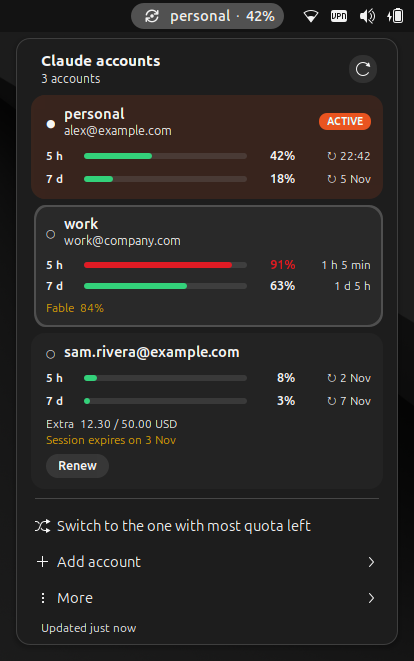
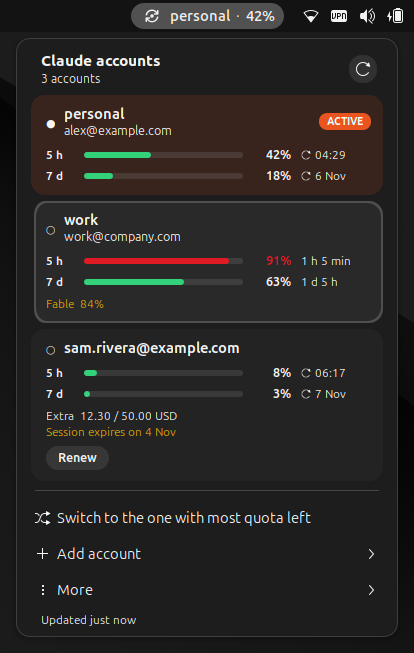
Document GNOME compatibility and releases; UTC screenshots
- CONTRIBUTING.md: the Docker compatibility matrix (`just compat`), when a
  GNOME version may be declared, screenshots and the release checklist.
- CLAUDE.md: per-version differences to keep in mind.
- The sandbox runs GNOME Shell in UTC so screenshots never reveal the
  local time zone; screenshots regenerated (new reset icon, version 0.2.0).

diff --git a/CONTRIBUTING.md b/CONTRIBUTING.md
@@ -1,0 +1,61 @@
+# Contributing
+
+Thanks for helping! Code, comments, commits and source strings are in English; the UI is translated with gettext (`po/`). Read [CLAUDE.md](CLAUDE.md) for the project rules: they apply to humans too.
+
+## Tests
+
+```bash
+npm install          # eslint only
+just test            # full suite (~4 min); just test-quick skips the long race test
+just lint
+```
+
+Tests run in a temporary `HOME` with a fake API and a fake `claude`. They never touch your real `~/.claude`.
+
+## Testing on every GNOME Shell version
+
+The extension supports GNOME Shell 45 to 51 from a single codebase. `just compat` checks all of them with Docker; `just compat 39 45` checks only some (the arguments are Fedora releases):
+
+| Fedora | 39 | 40 | 41 | 42 | 43 | 44 | 45 |
+|---|---|---|---|---|---|---|---|
+| GNOME Shell | 45 | 46 | 47 | 48 | 49 | 50 | 51 |
+
+For each release it builds an image from `tools/compat/Dockerfile` (cached as `cas-gnome:f<release>`) and runs `tools/compat/check.sh` inside it, as an unprivileged user and with the repository mounted read-only:
+
+1. the engine test suite (`tests/run.js --quick`);
+2. a **headless GNOME Shell** with the extension in a sandbox: 20 enable/disable cycles (`tools/sandbox.sh cycle`);
+3. screenshots of the menu with three example accounts.
+
+Results go to `/tmp/cas-compat/f<release>/` (`shots/`, `shell-cycle.log`, `tests.log`, `versions.txt`) and a summary is printed:
+
+```
+fedora gnome-shell  gjs     tests  cycles  js-errors  shots
+f39    45.10        1.78.5  71/0   20/20   0          10
+...
+```
+
+A version **passes** when tests have 0 failures, cycles are 20/20 with the indicator really in the panel, `js-errors` is 0 (it also counts extension load failures) and the screenshots look right; open a few in `shots/`, a layout bug does not show up as an error. Only then add the version to `shell-version` in `extension/metadata.json`.
+
+The container has no systemd, so `check.sh` provides what a desktop always has: a private D-Bus daemon as the system bus, `/tmp/.X11-unix`, and `tools/compat/fake-localed.js` (GNOME 45 and 47 crash without `org.freedesktop.locale1`). Undeclared versions are loaded with `disable-extension-version-validation` (`CLAUDE_ACCOUNTS_IGNORE_VERSION=1`). Logs mention GDM, logind, PolicyKit or GeoClue: that noise is expected.
+
+To support a new GNOME release: add its Fedora release to the default list in `tools/compat/run-matrix.sh`, run `just compat <release>`, fix what breaks (feature-detect instead of comparing versions when possible) and update `metadata.json`, the README table and badge, and the version range in `install.sh`.
+
+## Screenshots
+
+`CLAUDE_ACCOUNTS_SHELL_MODE=headless just screenshots` and `just prefs-shots` regenerate `assets/screenshots/` from a sandbox with example accounts (no window; without the variable a nested window opens). The sandbox uses UTC so the clock does not reveal a time zone, and PNG metadata is stripped. Check every image before committing: no real names, emails or paths.
+
+## Releasing
+
+1. Bump the version in `extension/metadata.json` (`version-name`), `engine/lib/version.js`, the user agent in `engine/adapters/http.js`, the fallback in `extension/prefs.js` and `tests/engine/e2e.test.js`; add a `CHANGELOG.md` entry.
+2. `just test`, `just lint`, `just compat`, regenerate screenshots if the UI changed.
+3. Commit with UTC dates and the noreply email, so no time zone or personal address is published:
+   ```bash
+   now=$(date -u +%Y-%m-%dT%H:%M:%S+0000)
+   GIT_AUTHOR_DATE=$now GIT_COMMITTER_DATE=$now git commit
+   ```
+4. `just pack`, then create the release with the zip, `install.sh` and `SHA256SUMS`:
+   ```bash
+   cd dist && cp ../install.sh . && sha256sum *.zip install.sh > SHA256SUMS
+   gh release create vX.Y.Z *.zip install.sh SHA256SUMS --title "..." --notes-file notes.md
+   ```
+   The one-line installer downloads from `releases/latest`, so users get the new version as soon as it is published.

diff --git a/CLAUDE.md b/CLAUDE.md
@@ -1,6 +1,6 @@
 # Claude Code Account Switcher for GNOME
 
-Claude Code account switcher for GNOME Shell 46, **native and self-contained** (no Python, no third-party switcher). Two pieces, both GJS (ES modules):
+Claude Code account switcher for GNOME Shell 45 to 51, **native and self-contained** (no Python, no third-party switcher). Two pieces, both GJS (ES modules):
 
 - `engine/`: the `claude-accounts` **engine**, a command-line program run with `gjs -m`. It is the only thing that reads or writes credentials.
 - `extension/`: the GNOME Shell **extension**. It draws the UI and runs the engine as a subprocess with `--json`.
@@ -22,9 +22,23 @@ Claude Code account switcher for GNOME Shell 46, **native and self-contained** (
 - One engine command at a time from the extension (`busy` flag); switching has priority over refreshing.
 - Every `--json` output carries `schemaVersion: 1`; the extension rejects any other version.
 
+## GNOME Shell versions (45 to 51)
+
+One codebase supports every version in `metadata.json` `shell-version`. **Only declare a version after `just compat` passes on it** (tests, 20/20 cycles, 0 errors, screenshots that look right). Known differences:
+
+- Vertical boxes: use `vbox()` from `lib/vbox.js`, never `vertical: true` (removed in 51) nor `orientation` alone (absent before 48).
+- `St.ScrollView` on 45 is an `St.Bin`: add the child with `add_actor()` when it exists (otherwise it gets zero height) and detach/destroy it before destroying the menu.
+- No `Animation.Spinner` (fragile across versions): use `lib/spinner.js`.
+- Notifications: `Main.notify()` before 46, an own `MessageTray.Source` from 46 (`SHELL_MAJOR` in `extension.js`).
+- System accent colour: only when the `accent-color` key exists (47+); feature-detect, do not compare versions, when possible.
+- Engine: no static `gi://GLibUnix` import (GLib < 2.80); see `onSigterm()` in `usecases/add.js`.
+- Avoid text glyphs such as ↻ or ⚠ in the UI: many distro fonts lack them; use symbolic icons.
+
 ## Development
 
 - `just test` (≈4 min, includes a 1,000-rotation race) / `just test-quick` / `just lint`.
 - Tests run the engine in a temporary `HOME` under `/tmp` with a fake API and a fake `claude`. **Never test against the real `~/.claude`.**
 - `just nested-sandbox` opens a nested GNOME Shell on a sandbox (fake HOME, fake accounts, own `dbus-run-session`, so your real dconf is untouched). `just screenshots`, `just prefs-shots`, `just cycle` and `just cycle-nested` automate screenshots and enable/disable cycles.
+- `just compat [fedora releases]` tests GNOME Shell 45–51 in Docker (see CONTRIBUTING.md).
 - After editing the `.gschema.xml` or `po/`: `just build`. Package with `just pack`.
+- Privacy: commits use the GitHub noreply email and UTC author **and committer** dates; screenshots are taken in UTC (the sandbox sets `TZ=UTC`) and stripped of PNG metadata. Releases: see CONTRIBUTING.md.

diff --git a/README.md b/README.md
@@ -164,7 +164,7 @@ Each GNOME Shell release is tested for real in a container: the full engine test
 | 50 | Fedora 44 | Ubuntu 26.04 LTS |
 | 51 | Fedora 45 | Arch, openSUSE Tumbleweed (rolling) |
 
-Run the matrix yourself with `just compat` (needs Docker).
+Run the matrix yourself with `just compat` (needs Docker); see [CONTRIBUTING.md](CONTRIBUTING.md#testing-on-every-gnome-shell-version).
 
 ## Development
 
@@ -178,7 +178,7 @@ just compat          # test on GNOME Shell 45–51 in Docker containers
 just pack            # build dist/claude-account-switcher@oswaldocarabano.github.io.shell-extension.zip
 ```
 
-Translations live in `po/` (`python3 tools/xgettext.py` regenerates the template). Contributions in other languages are welcome.
+Translations live in `po/` (`python3 tools/xgettext.py` regenerates the template). Contributions in other languages are welcome. See [CONTRIBUTING.md](CONTRIBUTING.md) for the compatibility matrix and the release process.
 
 ## Credits
 
